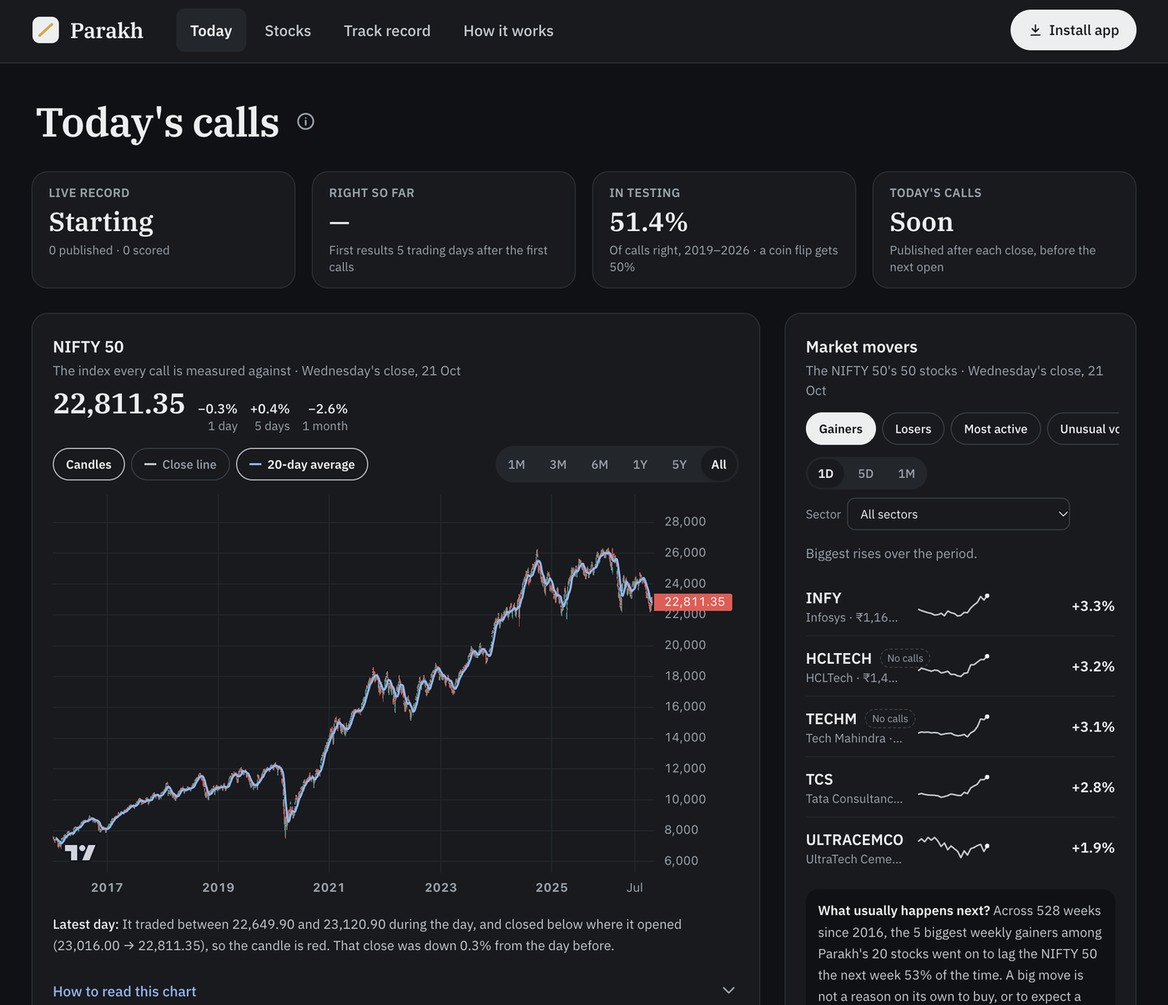
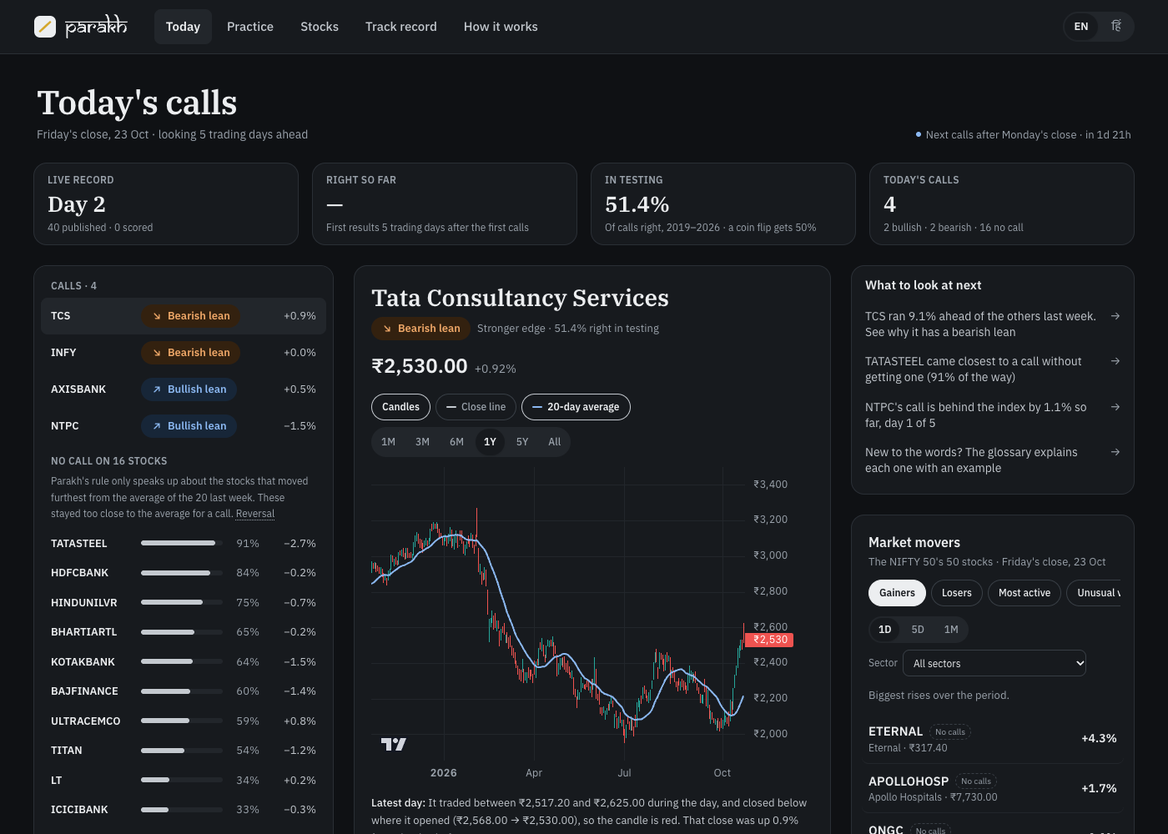
docs: tighten the README around practice and refresh screenshots

diff --git a/README.md b/README.md
@@ -2,135 +2,103 @@
 
 *Parakh (परख): to test something's true worth, the way a jeweller tests gold on a touchstone.*
 
-**Stock signals with receipts, for beginner Indian investors.** Every call shows its track record, its confidence and its reasoning, says "No call" when the data isn't clear, and admits when its edge is too small to trade on.
+**Practise investing with fake money, and see honestly what works.** A web app for beginner Indian investors. Replay real markets in a time machine, follow stock signals that show their track record, and judge everything against simply holding a NIFTY 50 index fund. In English and Hindi.
 
-**Live app:** [parakh-bi78.vercel.app](https://parakh-bi78.vercel.app/) · [Model card](docs/model-card.md) · [Decision log](docs/decisions.md) (41 decisions) · [PRD](docs/PRD.md) · [SQL analysis](analysis/track_record_sql.ipynb)
+**Live app:** [parakh-bi78.vercel.app](https://parakh-bi78.vercel.app/) · [Decision log](docs/decisions.md) (41 decisions) · [PRD](docs/PRD.md) · [Model card](docs/model-card.md) · [SQL analysis](analysis/track_record_sql.ipynb)
 
-> **The short version.** I set out to build an ML model that tells beginners whether a stock will beat the NIFTY 50 over the next week. With rules written down before testing, a one-line rule matched a tuned LightGBM model, and on two years of data held back until the end, neither was reliably better than a coin flip. So the product doesn't compete on accuracy. It competes on honesty: every number Parakh shows can be checked, and nothing it publishes can be edited afterwards.
+> **The short version.** I set out to build an ML model that tells beginners whether a stock will beat the NIFTY 50 over the next week. Under rules written down before testing, a one-line rule matched a tuned LightGBM model, and on two years of held-back data neither beat a coin flip. So I stopped competing on accuracy. Parakh shows its receipts on every call, and teaches the lesson the data taught me through a game: picking stocks is hard, so measure everything against the index fund.
 
-<img src="docs/img/screen-today-desktop.png" alt="Parakh's Today page on a laptop: four key numbers (live record starting, right so far, 51.4% in testing, today's calls), a zoomable NIFTY 50 candlestick chart since 2016 with a 20-day average, and a Market movers card listing the day's top gainers with a note on what usually happens next" width="860">
+<img src="docs/img/screen-practice-desktop.png" alt="The time machine mid-game in the 2020 crash: holdings on the left, your money (₹90,598) against the same money left in the index fund (₹73,804) with a line chart and play controls in the middle, and a market list with Buy buttons on the right" width="860">
 
-## The problem
+## What's in it
 
-Beginners in India get stock ideas from Telegram groups, finfluencers and YouTube. Those tips come with **no track record, no stated confidence and no reasoning**, so the loudest voice wins. SEBI's recent action against unregistered finfluencers shows how common this is.
+### The time machine: practice on real markets
 
-Parakh's bet: if a source showed its receipts (how often it has been right, how sure it is, and why), a beginner could judge it. The first source to hold to that standard should be Parakh itself.
-
-## What happened
-
-**1. The first model looked like it worked.** LightGBM on 15 price and volume features was right on 51.2% of its calls in a walk-forward test, and its probabilities were well calibrated. It was a small edge, and I designed the product around stating it honestly.
-
-**2. A closer look said the edge wasn't real yet.** Measured properly, as a daily rank correlation counted only on non-overlapping weeks, the edge was statistically indistinguishable from zero (t ≈ 1.1). The model's "worst year" turned out to be a bug: in 2021 the calibration step had flipped the model's ranking upside down, so a model that was slightly right published calls that were slightly wrong ([D-023](docs/decisions.md)).
-
-**3. I wrote the rules down before running anything else** ([D-022](docs/decisions.md)): one metric, a pass bar, a margin a complex model must win by, a list of the experiments allowed, and 2025–26 held back as a one-time final test. With an edge this small, trying variants until one looks good produces luck, not signal.
-
-**4. A one-line rule beat the ML** ([D-024](docs/decisions.md)). "Last week's laggards tend to beat the index next week" passed the bar on 2019–24 (t = 2.39). LightGBM didn't (t = 1.80), and none of the pre-listed features, targets or horizons changed that.
-
-**5. Then the holdout didn't hold up.** On 2025–26 the rule was right on 48.8% of calls, and LightGBM on 52.1%; neither is statistically significant. Switching to LightGBM on that basis would have meant choosing on the only clean test, so the rule ships, and the model card prints the holdout as it came out.
-
-| | Research years 2019–24 | Holdout 2025–26 | Coin flip |
-|---|---|---|---|
-| Calls that were right | **52.1%** | **48.8%** (2,181 calls) | 50% |
-| Rank IC (t-stat) | 0.029 (2.39) | 0.018 (0.98) | 0 |
-| Calibration error | 0.8 points | 0.6 points | — |
-
-**Is it worth trading on? No.** Across all years, stocks with a bullish lean beat the index by 0.09% over 5 days on average, and bearish-lean stocks lagged it by 0.10%. That gap is smaller than typical trading costs (about 0.25%), and the app says so on its Track record screen.
-
-## What the product does with that
-
-### Every call shows its receipt
-
-- **Asks one honest question:** will this stock do better than a NIFTY 50 index fund over the next 5 trading days? For most beginners, the index fund is the real alternative.
-- **Gives a lean, not an instruction:** *Bullish lean*, *Bearish lean*, or *No call*, with a confidence label.
-- **Shows the receipt on every call:** for example, "Slight edge · 51.4% right in testing". That line never collapses away.
-- **Warns where it has struggled, with a range:** for example, "On ASIANPAINT: 47.4% in testing, below a coin flip (likely 41–54%)", so a user can see how much of that could be chance.
-- **Tracks calls in progress:** each open call is followed day by day against the NIFTY 50 until it's scored, from daily closes. There are no live tickers, on purpose ([D-025](docs/decisions.md)).
-- **Leads with what matters now:** four key numbers up top, the market first until live calls exist, then today's calls ([D-031](docs/decisions.md)).
-
-### Charts a beginner can actually read
+- **Pick a period and an amount:** the 2020 crash, the 2021 rally, 18 flat months, a decade of SIP, or a **mystery** period with the dates hidden, so hindsight can't help.
+- **Let time run:** buy and sell any NIFTY 50 stock or a real index fund (NIFTYBEES) with virtual money. Orders fill at the next day's open, in whole shares, with real charges itemised: STT, exchange fees, stamp duty, GST and the depository charge.
+- **The market interrupts you.** In a sharp fall or rally, or when your own money is 15% down, the game stops and asks: hold, sell or buy more? It shows only what you could have known that day.
+- **A report card, not a score:** you against the same money left in the index fund, what followed each of your choices, and short lessons linked to what you did (selling in a fall, idle cash, charges, survivorship bias…). A win is called luck: one period proves nothing.
+- **Shown, not told:** a picture strip and a spotlight tour on the first game, with "start here" nudges until the first order ([D-041](docs/decisions.md)).
 
 <p>
-  <img src="docs/img/screen-today-phone.png" alt="Parakh's Today page on a phone: the four key numbers in a two-by-two grid above the NIFTY 50 candlestick chart" width="240">
+  <img src="docs/img/screen-practice-report.png" alt="A finished game's report card: you at ₹1,11,251 against the index fund's ₹1,12,903, so the fund won by ₹1,652. Keeping half the money in cash cut the worst fall to 14.9% against the fund's 36.7%, but cost the gain. Below: a chart of the whole year, notes on each choice and what the index fund did next, and lesson cards" width="560">
   &nbsp;
-  <img src="docs/img/screen-stock-desktop.png" alt="HDFC Bank's stock page: a one-year candlestick chart with a 20-day average and past calls marked right or wrong, and a crosshair tooltip showing that day's open, high, low, close, change and 20-day average" width="600">
+  <img src="docs/img/screen-practice-phone-hi.png" alt="The game on a phone in Hindi, stopped on 9 March 2020: NIFTY 50 fell 11.2% in two weeks, with three choices: hold, sell everything or buy more" width="240">
 </p>
 
-- **Zoomable candlesticks back to 2016** for the NIFTY 50 and every stock: scroll or pinch to zoom, drag to pan, 1M to All ([D-029](docs/decisions.md)).
-- **A crosshair tooltip** with open, high, low, close, the change from the day before and the 20-day average, plus a toggleable close line and trendline.
-- **Every day readable in plain words:** "It traded between ₹722 and ₹729, and closed above where it opened, so the candle is green. That close was down 1.1% from the day before." A "How to read a candle" explainer covers the classic trap: a candle compares the close with *that day's* open, not with yesterday's close.
-- **Past calls on the chart,** in their lean colour, marked ✓ or ✗ once scored.
+### Signals with receipts
 
-### The whole market, with context
+<img src="docs/img/screen-today-desktop.png" alt="Today on a laptop: key numbers, a list of the 20 stocks with calls first and no-calls ranked by how close they came, the selected stock's chart and lean in the middle, and a rail with what to look at next and market movers" width="860">
 
-<img src="docs/img/screen-screener-desktop.png" alt="The Stocks screener: all 50 NIFTY 50 stocks sorted by 1-day gain, with columns for price, 1-day, 5-day and 1-month change, value traded in rupees crore, volume against usual, a 52-week range bar and a one-month sparkline; stocks Parakh doesn't cover are marked No Parakh calls" width="860">
+- **One honest question:** will this stock beat a NIFTY 50 index fund over the next 5 trading days? The answer is a *lean*, not an instruction, or *No call*.
+- **A receipt on every call:** "Slight edge · 51.4% right in testing", plus a range when a stock has done worse than a coin flip, so you can see how much of that could be chance.
+- **Every no-call says why:** "3.5% behind the average; calls started at 3.8%", with a bar for how close it came ([D-035](docs/decisions.md)).
+- **A laptop workspace:** stock list, selected stock's chart and reasons, and a rail with what to look at next ([D-038](docs/decisions.md)). Phones get a scrolling feed.
+- **A record nobody can edit:** calls are published before the market opens, and the database refuses edits or deletions. Live and simulated records are never mixed, and the whole ledger downloads as a CSV.
 
-- **Market movers across all 50 NIFTY 50 stocks:** gainers and losers (1 day, 5 days, 1 month), most active, unusual volume, and stocks near their 52-week high or low, filterable by sector ([D-030](docs/decisions.md)).
-- **Most active by value traded, not share count.** A ₹300 stock trades far more shares than a ₹10,000 one without being busier, and the app says so.
-- **What usually happens next:** next to the gainers, from Parakh's own history, the week's 5 biggest gainers lagged the NIFTY 50 the following week 53% of the time. A big move isn't a reason on its own to buy.
-- **A full screener** with sortable columns, search and a "Parakh's 20 only" filter. The 30 stocks Parakh doesn't make calls on are clearly marked.
+### Context, in plain words
 
-### A track record nobody can edit
+- **News as context, not tips:** headlines for all 50 stocks from Google News, grouped under the biggest movers ("why did they move?"). Tips, price targets and predictions are filtered out, and every list notes that news is usually already priced in ([D-037](docs/decisions.md)).
+- **Charts a beginner can read:** zoomable candles since 2016, each day described in a sentence, and past calls marked right or wrong.
+- **Hindi throughout the new screens,** in everyday Hindi that keeps the English market words people actually use, plus a 27-term glossary behind every dotted word ([D-034](docs/decisions.md)).
 
-<img src="docs/img/screen-record-desktop.png" alt="The Track record page: the live record (published, scored, right so far) next to the simulated testing record of 51.4% across 9,917 calls, with a year-by-year chart whose worst year is 2026 at 44.2%, and a calibration chart" width="860">
+## What the data said
 
-- **Two records, never mixed:** the live calls, and how the same method did in testing on years it never trained on, including its worst year.
-- **A public ledger:** calls are published after the close and before the next open, and the database refuses any edit or deletion. Anyone can download the whole ledger as a CSV.
-- **Calibration you can check:** when Parakh says 52%, it has been right about 52% of the time.
+1. **The first model looked like it worked:** 51.2% right in a walk-forward test, and well calibrated.
+2. **Measured properly, the edge vanished** (rank correlation on non-overlapping weeks, t ≈ 1.1). Its "worst year" was a calibration bug that had flipped the ranking upside down ([D-023](docs/decisions.md)).
+3. **I fixed the rules before testing again** ([D-022](docs/decisions.md)): one metric, a pass bar, a list of allowed experiments, and 2025–26 held back for one final test. A one-line rule ("last week's laggards beat the index next week") passed; LightGBM didn't ([D-024](docs/decisions.md)).
+4. **The holdout didn't hold up**, and the model card prints it as it came out:
 
-## Product decisions
+| | Research 2019–24 | Holdout 2025–26 | Coin flip |
+|---|---|---|---|
+| Calls that were right | 52.1% | **48.8%** (2,181 calls) | 50% |
+| Rank IC (t-stat) | 0.029 (2.39) | 0.018 (0.98) | 0 |
 
-Each is written up in the [decision log](docs/decisions.md), with the alternatives considered.
+The gap between bullish and bearish leans (about 0.2% over 5 days) is smaller than trading costs (about 0.25%), and the app says so. A [SQL analysis](analysis/track_record_sql.ipynb) of the record adds two findings. The "stronger edge" label did *worse* than "slight edge", so it was dropped ([D-032](docs/decisions.md)). And the price feed has gaps on some trading days.
+
+## Key decisions
+
+All 41 are in the [decision log](docs/decisions.md), each with the alternatives considered.
 
 | Decision | Why |
 |---|---|
-| **Compete on honesty, not accuracy** ([D-001](docs/decisions.md)) | Short-term moves of large stocks can't be predicted much better than chance with public data. A product that promises accuracy invites overclaiming. |
-| **Predict "beats the index", not "price goes up"** ([D-008](docs/decisions.md)) | On "price goes up" the model just followed the market mood (bullish on 98% of stock-days in 2024). The index comparison removes that and matches the beginner's real choice. |
-| **Receipts enforced by the database** ([D-015](docs/decisions.md)) | Append-only triggers and a strict publish window. A missed window stays a visible gap instead of being backfilled. |
-| **Warn about weak stocks rather than hide them** ([D-019](docs/decisions.md)) | Quietly dropping stocks below 50% would flatter the scoreboard, which is the cherry-picking Parakh exists to oppose. |
-| **Rules before results, and a holdout** ([D-022](docs/decisions.md)) | The only way to trust a small edge is to fix the test before seeing the answer. |
-| **Ship the simpler model** ([D-024](docs/decisions.md)) | The ML didn't clearly beat one line of logic. Simpler is easier to explain, and it can't hide anything. |
-| **Daily candles, no live prices** ([D-025](docs/decisions.md)) | Mid-session swings mean nothing for a 5-day call and recreate the tips-group thrill. Real-time NSE data also needs a paid licence. |
-| **An installable web app, details on demand** ([D-018](docs/decisions.md)) | One codebase for phones and laptops, with no app store. Feedback on the first mockups ("too open and detailed") moved detail behind taps, but the receipts stay visible. |
+| Compete on honesty, not accuracy ([D-001](docs/decisions.md)) | Short-term moves of large stocks can't be predicted much better than chance with public data. Promising accuracy invites overclaiming. |
+| Judge against the index fund ([D-008](docs/decisions.md)) | It's a beginner's real alternative, and it stops a model scoring points just by following the market's mood. |
+| Rules before results, and a holdout ([D-022](docs/decisions.md)) | With an edge this small, trying variants until one looks good produces luck, not signal. |
+| Ship the simpler model ([D-024](docs/decisions.md)) | The ML didn't clearly beat one line of logic, and simpler can't hide anything. |
+| From signals to practice ([D-033](docs/decisions.md)) | If even the model can't beat a coin flip, the most useful thing for a beginner is to learn that safely, with fake money. |
+| Real prices, real charges, a real ETF ([D-039](docs/decisions.md)) | The index level leaves out dividends, and costs are what eat small edges. Without both, the game teaches the wrong lesson. |
+| No accounts, no leaderboard, no live prices ([D-025](docs/decisions.md), [D-033](docs/decisions.md)) | Accounts add little to the lesson; ranking by profit rewards gambling; intraday ticks recreate the tips-group thrill. |
+| Show how to play, don't tell ([D-041](docs/decisions.md)) | In the first real test, the player couldn't find where to start and left 98.6% of the money in cash. The rules were fine; the first minute wasn't. |
 
 ## What I'd do differently
 
-- **Start from the user's job, not the model.** The PRD's job-to-be-done is "before I act on a stock idea, help me see what the data says". I built a scoreboard for Parakh's own calls first. The more useful product takes the user's tip as the input: how often has a move like that actually happened, what would it mean against an index fund, and what red flags are in the message. That works on day one, with no predictive edge needed.
-- **Test the dumbest baseline first.** A one-line rule matched all the feature engineering. Running it on day one would have set the bar much earlier.
-- **Fix the test before the first experiment, not the twentieth.** The early results looked better than they were because the metric and the evaluation were still moving.
-- **Check data access before designing around it.** Licensed real-time NSE data isn't available to a project like this, and Yahoo's index data sometimes lags the stocks by hours. Both shaped the product late rather than early.
+- **Run the dumbest baseline first.** A one-line rule matched all the feature engineering.
+- **Fix the test before the first experiment, not the twentieth.** Early results looked better than they were because the metric was still moving.
+- **Put a real beginner in front of it sooner.** One session exposed the onboarding gap that weeks of building hadn't.
 
 ## How it works
 
 ```mermaid
 flowchart LR
-    Y[Yahoo Finance<br/>daily prices,<br/>all 50 NIFTY stocks] --> D
+    Y[Yahoo Finance<br/>daily prices] --> D
+    G[Google News RSS] --> N
     subgraph GA[GitHub Actions]
-        D[Daily job, 18:00 IST<br/>+ catch-up runs<br/>score matured calls,<br/>publish next calls]
-        W[Weekly retrain<br/>walk-forward evaluation,<br/>new model version]
+        D[Daily job, 18:00 IST<br/>score calls, publish next]
+        W[Weekly retrain]
+        N[News, every 3 hours]
     end
-    D --> DB[(Neon Postgres<br/>append-only ledger)]
-    W --> DB
+    D & W & N --> DB[(Neon Postgres<br/>append-only ledger)]
     DB --> API[FastAPI on Render<br/>read-only]
-    API --> APP[React PWA on Vercel<br/>phone and desktop]
+    API --> APP[React PWA on Vercel<br/>time machine runs in the browser]
 ```
 
-- **ML:** a reversal rule, logistic regression and LightGBM (15 price and volume features, SHAP explanations) compared by daily rank IC under pre-registered rules; the simplest model that clears the bar wins. Platt calibration on out-of-fold scores, with each day's calls centred on 50%. Explanations are fixed sentence templates.
-- **Ledger:** calls and outcomes live in separate append-only tables. Every call records the model version that made it, and stored versions are never overwritten.
-- **Data:** daily prices for all 50 NIFTY 50 stocks and the index. Only Parakh's 20 reach the model; the other 30 are stored separately for the charts, movers and screener. Catch-up runs at 21:00 and 07:30 IST cover days when Yahoo's index close arrives late.
-- **App:** React, TypeScript and Tailwind, with types generated from the API's schema. Charts use TradingView's open-source lightweight-charts, loaded only when a chart is on screen. It installs as a PWA and works offline with the last saved calls.
-- **Quality:** 46 Python tests (including look-ahead checks and live scoring matching the training label) and 36 frontend tests, all run in CI.
+- **Signals:** a reversal rule, logistic regression and LightGBM (SHAP explanations), compared under pre-registered rules. Explanations are fixed sentence templates, so a reason can't be made up.
+- **Time machine:** a pure TypeScript engine replays a game from its saved orders, so a game can be resumed or replayed exactly. Prices come from one cached endpoint (about 740 KB). Games are saved on the device.
+- **App:** React, TypeScript and Tailwind, with types generated from the API schema and typed English/Hindi dictionaries (a missing Hindi line fails the build). It's an installable PWA.
+- **Quality:** 56 Python and 73 frontend tests, including look-ahead checks and engine tests on real 2020–23 prices.
 
-Setup and deployment: [development guide](docs/development.md).
-
-## What's next
-
-- **Let the live ledger judge the method.** The ledger starts in late October 2026 and runs on its own; a fair first verdict needs about 6 months of calls.
-- **"Check a tip":** paste a tip and see base rates, the index comparison and red flags (the job above).
-- **Hindi.** The typeface was chosen with a matching Devanagari version for this.
-
-## Project history
-
-This started as a company screening-assignment notebook: RSI and moving-average signals, a logistic regression on 6 months of data, and logging to Google Sheets. [`research/`](research/README.md) keeps that notebook and lists its methodology issues (look-ahead leakage, too little data, no baseline), each of which the rebuild fixes.
+Setup and deployment: [development guide](docs/development.md). The original screening-assignment notebook this grew from is in [`research/`](research/README.md), with its methodology issues listed.
 
 ## Disclaimer
 

diff --git a/docs/PRD.md b/docs/PRD.md
@@ -1,6 +1,6 @@
 # Product Requirements: Parakh
 
-> Status: v1 draft · Owner: Vanshaj Verma · Last updated: 2026-10-24
+> Status: v1, built and live · Owner: Vanshaj Verma · Last updated: 2026-10-24
 
 ## 1. Summary
 
@@ -64,8 +64,9 @@ See [decisions.md](decisions.md) for the full decision log.
 On the phone, every screen shows a short summary first and reveals detail on tap. The receipt on each call and any per-stock warning are always visible (decisions D-018 and D-019). Desktop layouts open the detail by default.
 
 1. **Today**
-   - A card for each stock: its lean, a confidence band and a one-line reason.
-   - A scoreboard strip: hit rate on calls vs a coin flip, and how bullish-lean stocks did relative to simply holding a NIFTY 50 index fund.
+   - Key numbers: the live record, how many live calls have been right, the testing hit rate against a coin flip, and today's calls.
+   - Each call with its lean, one label (*Slight edge*, D-032), its receipt and its reason; each no-call with how close it came (D-035).
+   - On laptops, a workspace: the stock list, the selected stock's chart, reasons and news, and a rail with what to look at next and market movers (D-038). On phones, a scrolling feed.
 2. **Stock page**
    - A price chart with past signals marked as hits or misses.
    - A "Why" breakdown: the top factors, in plain words.
@@ -82,11 +83,12 @@ On the phone, every screen shows a short summary first and reveals detail on tap
    - A disclaimer.
 5. **Glossary** (D-034)
    - Every market word the app uses, in plain English and Hindi, with an example. Any dotted word in the app opens its meaning.
-6. **Practice: the time machine** (D-033, phase 16)
-   - Pick a scenario (the 2020 crash, the 2021 rally, a flat 2022–23, a decade of SIP, or a mystery period with the dates hidden) and a starting amount.
-   - Time plays forward on its own; buy and sell whole shares or a NIFTY 50 ETF, with real charges, filled at the next day's open.
-   - The game pauses on big market moves and asks what you'll do.
-   - A report card compares you with just holding the index fund, with short lessons tied to what you did.
+6. **Practice: the time machine** (D-033, D-039 to D-041)
+   - Pick a scenario (the 2020 crash, the 2021 rally, 18 flat months from October 2021, a decade of SIP, or a mystery period with the dates hidden) and a starting amount.
+   - Time plays forward on its own; buy by rupees or shares and sell any number of shares, of any NIFTY 50 stock or a NIFTY 50 ETF, with real charges, filled at the next day's open.
+   - The game stops on sharp market moves, or when your money is 15% down, and asks what you'll do.
+   - A report card compares you with the same money left in the index fund, notes what followed each choice, and links short lessons.
+   - A picture strip and a spotlight tour show first-time players how to play.
 
 **News** (D-037): Today shows headlines under the stocks that moved most, and each stock page lists its own, in English or Hindi. Tips are filtered out, and every list reminds the reader that news is usually priced in.
 
@@ -101,7 +103,9 @@ Trade execution, portfolio tracking, intraday data, personalised advice, user ac
 - Watchlist
 - A daily email or Telegram digest (meet users where the bad tips live)
 - LLM-written explanations built on top of the SHAP output
-- "Explain this tip": enter a stock a finfluencer mentioned and see what the data says
+- "Check a tip": paste a tip from a finfluencer or a Telegram group and see base rates, the index-fund comparison and red flags
+- Taxes on gains in the time machine (short- and long-term capital gains)
+- More of the app in Hindi (Stocks, Track record, How it works)
 
 ## 7. Success metrics
 
@@ -115,7 +119,7 @@ See [model-card.md](model-card.md) for current numbers.
 ### Product (hypothetical, for the case study)
 - **North star:** weekly users who view a signal's track record or finish a practice game.
 - **Supporting:** visits to "How it works", return visits each week, practice games replayed.
-- **Learning (phase 17 user test):** the share of testers who beat the index fund, and how often they sell during a big fall before and after seeing the lesson card.
+- **Learning (phase 19 user test):** the share of testers who beat the index fund, and how often they sell during a big fall before and after seeing the lesson card.
 
 ### Guardrails
 - 0 signals shown without a confidence value and a reason.
@@ -148,7 +152,7 @@ See [model-card.md](model-card.md) for current numbers.
 | 15 | English and Hindi, glossary, no-call reasons (D-033 to D-035) |
 | 16 | Motion and daily suggestions (D-036) |
 | 17 | News as context for moves (D-037) |
-| 18 | Practice: the time machine, with interruptions, a report card and lessons (D-039, D-040) |
+| 18 | Practice: the time machine, with interruptions, a report card, lessons and a how-to-play tour (D-039 to D-041) |
 | 19 | User test with 5–10 beginners, fixes and write-up |
 | Later | Ideas above; taxes in the simulator |
 

diff --git a/docs/development.md b/docs/development.md
@@ -5,10 +5,10 @@
 | Folder | What's in it |
 |---|---|
 | `ml/` | Data download, features, labels, model, walk-forward evaluation, SHAP explanations, model-card generator |
-| `jobs/` | `retrain` (weekly: evaluate, train, publish a model version) and `daily` (score matured calls, publish the next ones), plus `news` (headlines every 3 hours) |
+| `jobs/` | `retrain` (weekly: evaluate, train, publish a model version), `daily` (score matured calls, publish the next ones) and `news` (headlines every 3 hours) |
 | `ledger/` | Postgres schema (append-only triggers), database access, scoring rules |
 | `api/` | Read-only FastAPI service |
-| `frontend/` | React + TypeScript + Vite + Tailwind PWA |
+| `frontend/` | React + TypeScript + Vite + Tailwind PWA. `src/lib/sim/` is the time machine's engine; `src/i18n/` holds the English and Hindi text |
 | `tests/` | Python tests (frontend tests live next to the code in `frontend/src`) |
 | `docs/` | PRD, decision log, model card, this guide |
 | `analysis/` | SQL analysis of the track record, run against the production database (read-only) |
@@ -35,7 +35,7 @@ python -m jobs.retrain --publish     # create tables, store the model as the act
 python -m jobs.daily                 # refresh prices, score matured calls, publish the next calls
 ```
 
-In production both jobs run in GitHub Actions ([daily](../.github/workflows/daily.yml) at 18:00 IST on weekdays, [retrain](../.github/workflows/retrain.yml) on Saturdays) with a `DATABASE_URL` repository secret. The ledger rules are in [decision D-015](decisions.md).
+In production the jobs run in GitHub Actions with a `DATABASE_URL` repository secret: [daily](../.github/workflows/daily.yml) at 18:00 IST on weekdays (with catch-up runs), [retrain](../.github/workflows/retrain.yml) on Saturdays, and [news](../.github/workflows/news.yml) every 3 hours (`python -m jobs.news`). The ledger rules are in [decision D-015](decisions.md); the news filters are in [D-037](decisions.md).
 
 ### API
 
@@ -49,6 +49,9 @@ uvicorn api.main:app --reload        # http://localhost:8000/docs for the intera
 | `GET /api/stocks`, `/api/stocks/{symbol}` | Stock list; stock page (chart, latest call and factors, live and simulated history) |
 | `GET /api/track-record` | Live record next to the simulated one |
 | `GET /api/ledger`, `/api/ledger.csv` | The public ledger, paginated or as a CSV download |
+| `GET /api/screener`, `/api/history/{symbol}` | Market movers and the screener for all 50 stocks; daily candles since 2016 |
+| `GET /api/news?lang=en\|hi&symbol=` | Headlines from the past 3 days, across the NIFTY 50 or for one stock |
+| `GET /api/sim/prices` | The time machine's price history: every stock's open and close on a clean trading calendar (gzipped, cached for an hour) |
 | `GET /api/model` | Model version, features and evaluation |
 | `GET /api/status` | Data freshness and recent job runs |
 
@@ -68,6 +71,10 @@ npm run gen:api        # regenerate src/api/schema.ts after changing the API's r
 ```
 
 TypeScript types are generated from the API's OpenAPI schema, so the frontend and backend can't drift apart. Fixtures are development-only and never included in production builds.
+
+**Text and translations.** Every string on a translated screen lives in `src/i18n/en.ts`; `src/i18n/hi.ts` must have the same shape, so adding an English string without its Hindi version fails `tsc` ([D-034](decisions.md)). Read text with `const { m } = useI18n()`.
+
+**The time machine.** `src/lib/sim/` is pure functions: `simulate()` turns a game (start, end, cash, optional SIP, orders) into fills, daily values and results, and `buildReport()` turns a finished game into notes and lessons. Its tests run on real 2020–23 prices in `src/fixtures/sim-market.json`. Games are saved in the browser only (`parakh.practice.v1`).
 
 ## Deployment
 
